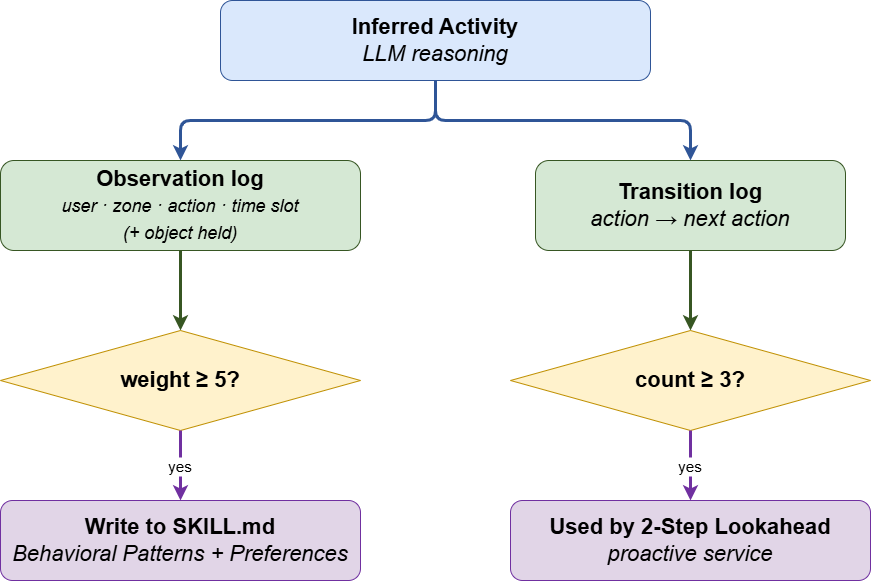
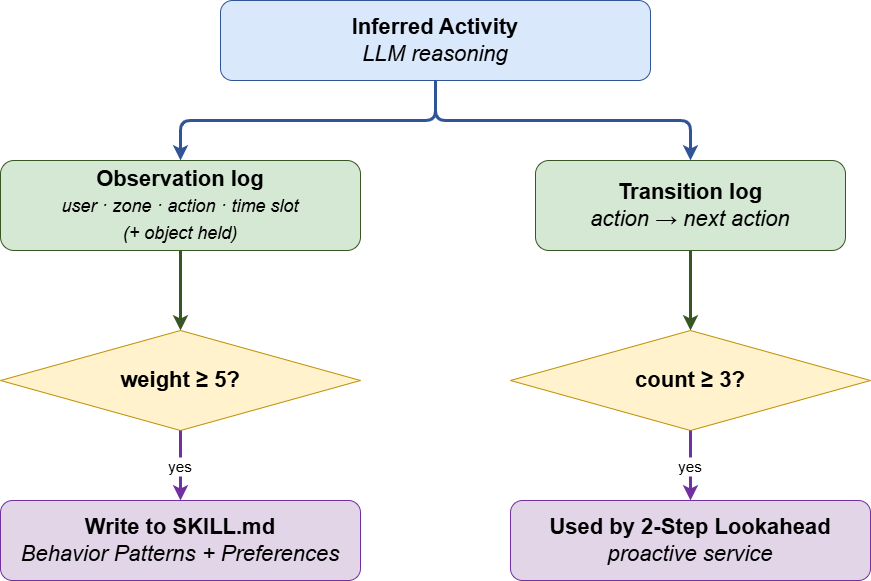
update

diff --git a/analysis/exp1_har_baseline.py b/analysis/exp1_har_baseline.py
@@ -169,7 +169,7 @@ def main():
     acc_a, correct_a, total_a = plot_confusion_matrix(
         docs_a,
         os.path.join(RESULTS_DIR, "exp1_confusion_matrix_semantic.png"),
-        system_label="Semantic System (Skeleton+Object+Spatiotemporal)")
+        system_label="Semantic System (Skeleton+Object+Spatial)")
 
     # Confusion matrix — VLM System
     if docs_b:
